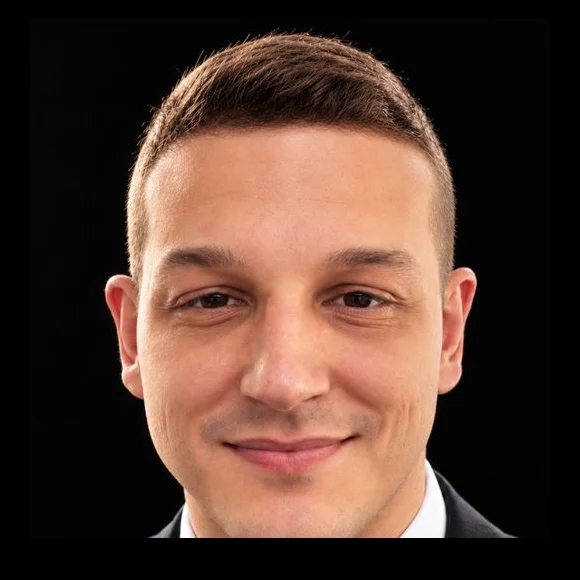
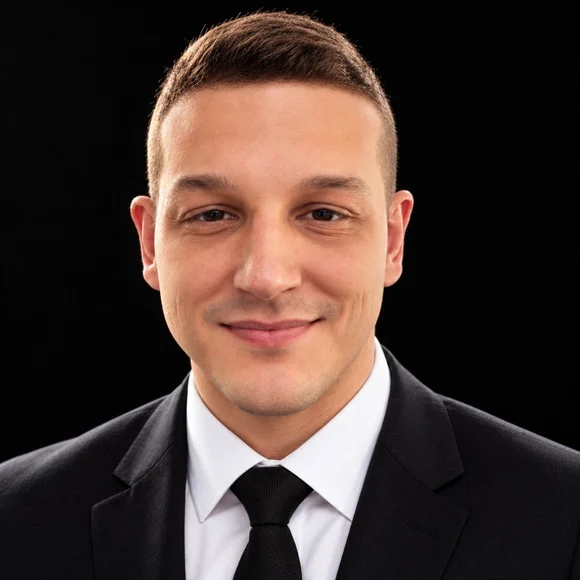
Pull the byline circle back so the headshot shows head and shoulders instead of a tight face crop.

diff --git a/src/components/landing/WebsiteHero.tsx b/src/components/landing/WebsiteHero.tsx
@@ -97,7 +97,7 @@ export function WebsiteHero({
                     >
                       {/* eslint-disable-next-line @next/next/no-img-element */}
                       <img
-                        src="/assets/images/lp/colton-wehr-face.webp?v=20261010c"
+                        src="/assets/images/lp/colton-wehr-face.webp?v=20261010d"
                         alt=""
                         width={580}
                         height={580}
@@ -107,7 +107,7 @@ export function WebsiteHero({
                   ) : (
                     /* eslint-disable-next-line @next/next/no-img-element */
                     <img
-                      src="/assets/images/lp/colton-wehr-face.webp?v=20261010c"
+                      src="/assets/images/lp/colton-wehr-face.webp?v=20261010d"
                       alt=""
                       width={580}
                       height={580}
